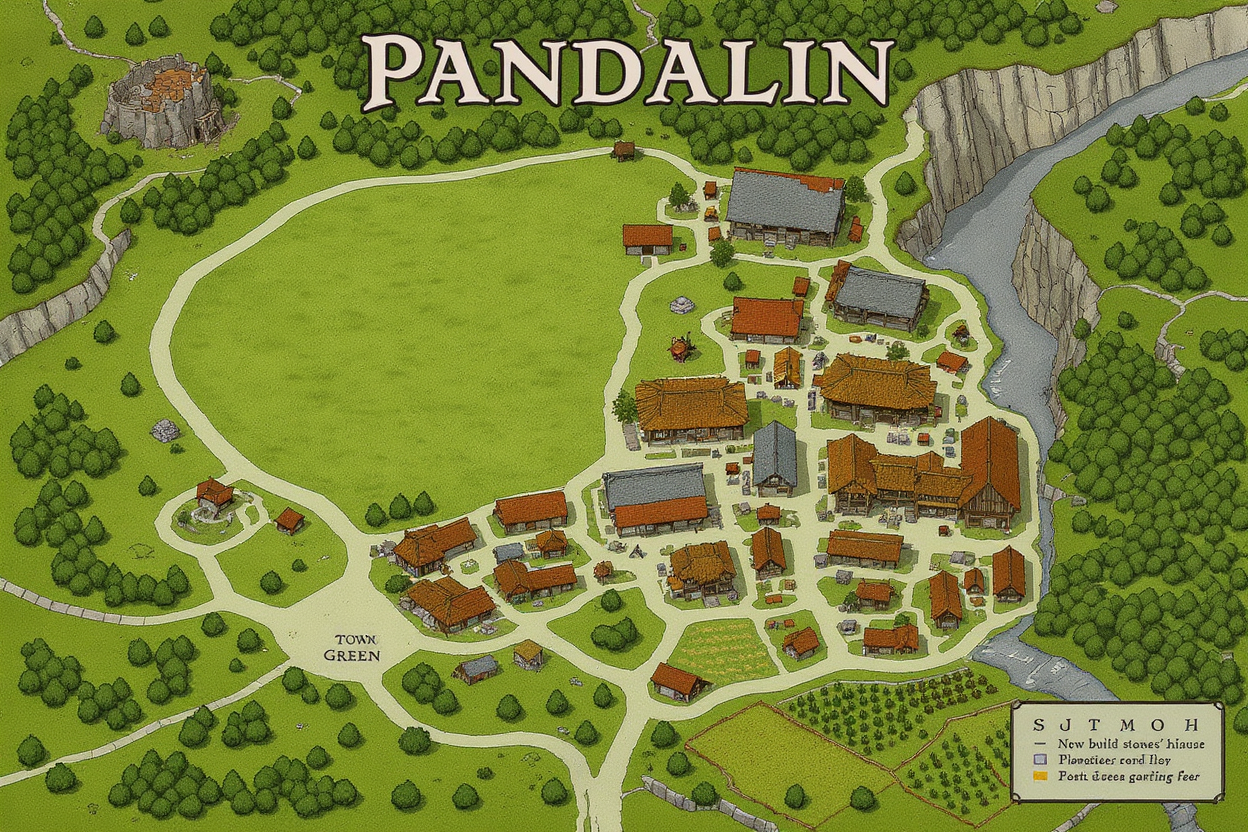
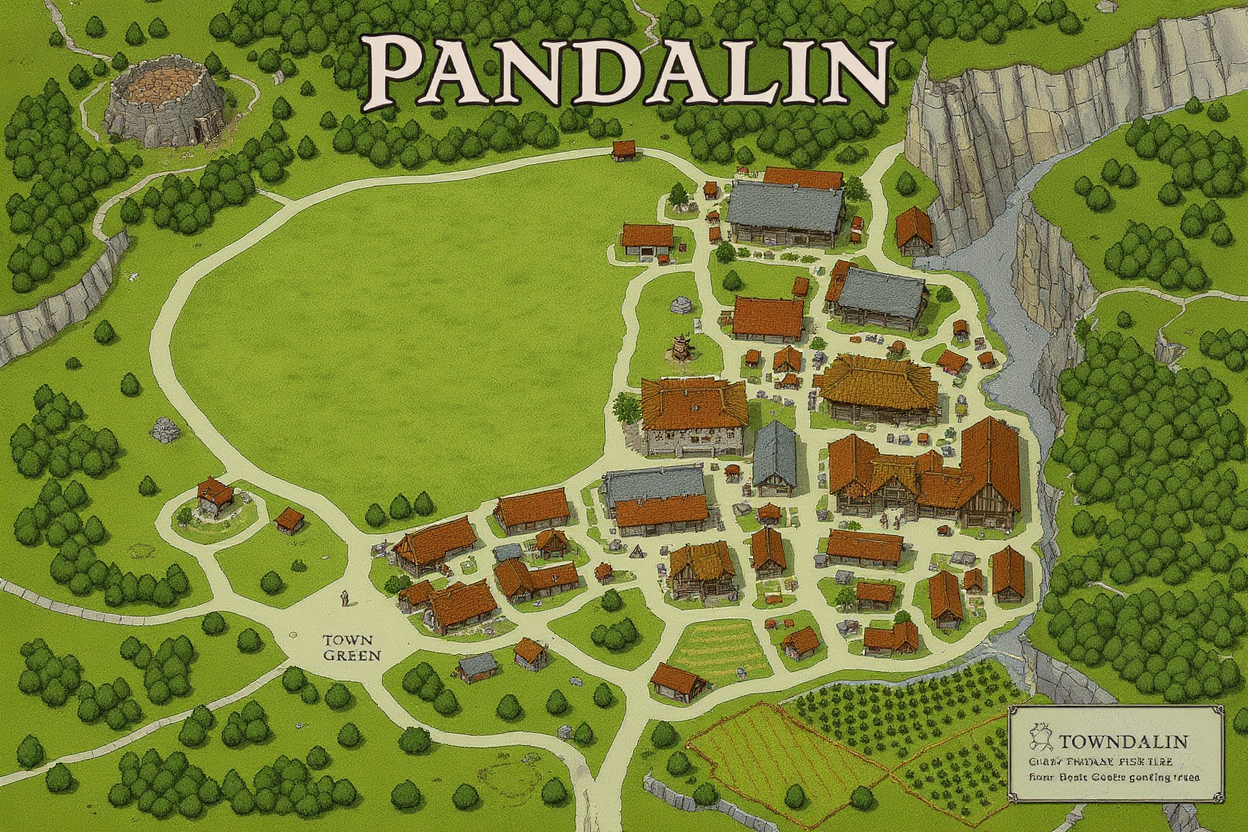
Image Test: ChatGPT's town and regional pictures beside FLUX's from the same text

diff --git a/public/image-test.html b/public/image-test.html
@@ -28,7 +28,9 @@
   .shot { position:relative; }
   .shot svg { position:absolute; inset:0; width:100%; height:100%; pointer-events:none; display:none; }
   .showwalls .shot svg { display:block; }
-  #grid3 figcaption b { text-transform:none; }
+  #grid3 figcaption b, #grid4 figcaption b, #grid5 figcaption b { text-transform:none; }
+  .grid2 { display:grid; grid-template-columns:repeat(2, minmax(0, 1fr)); gap:14px; max-width:1500px; }
+  @media (max-width: 900px) { .grid2 { grid-template-columns:1fr; } }
   .grid3 { display:grid; grid-template-columns:repeat(3, minmax(0, 1fr)); gap:14px; }
   @media (max-width: 1100px) { .grid3 { grid-template-columns:1fr 1fr; } } @media (max-width: 700px) { .grid3 { grid-template-columns:1fr; } }
   .good { color:var(--ok, #3fd27f); } .meh { color:var(--gold); } .poor { color:#ff8b8b; }
@@ -57,14 +59,14 @@
   <div class="grid3" id="grid3"></div>
 
   <h2 class="sec">FLUX Kontext paints <span>Phandalin</span></h2>
-  <p class="lead">A town map made by FLUX Kontext on fal.ai from a text description only (no drawing sent). The same description was used for our ChatGPT version of Phandalin. Walls do not apply to a town map, so there is no overlay here.</p>
+  <p class="lead">The same description of Phandalin, word for word, given to ChatGPT (gpt-image-1, high, the picture our campaign uses) and to FLUX Kontext on fal.ai. Text only, no drawing sent to either. Walls do not apply to a town map, so there is no overlay here.</p>
   <section class="prompt"><h2>The prompt used</h2><p id="prompt3">Loading…</p></section>
-  <div class="grid3" id="grid4"></div>
+  <div class="grid2" id="grid4"></div>
 
   <h2 class="sec">FLUX Kontext paints <span>a regional map</span></h2>
-  <p class="lead">A regional map made by FLUX Kontext on fal.ai from a text description only (no drawing sent): the same atlas description we gave ChatGPT for the Sword Coast-style map. It is a portrait picture, 2:3.</p>
+  <p class="lead">The same atlas description, word for word, given to ChatGPT (gpt-image-1) and to FLUX Kontext on fal.ai, text only, portrait 2:3. This is ChatGPT's first picture from the text. Our campaign's Sword Coast was later made from a drawn layout, so it follows the real geography more closely.</p>
   <section class="prompt"><h2>The prompt used</h2><p id="prompt4">Loading…</p></section>
-  <div class="grid3" id="grid5"></div>
+  <div class="grid2" id="grid5"></div>
 </main>
 <script src="/nav.js"></script>
 <script>
@@ -132,10 +134,15 @@
     fig.appendChild(cap); grid3.appendChild(fig);
   }
   // ---- the town and the region (FLUX Kontext from text only)
-  const textOnly = async (name, promptId, gridId, title, verdict) => {
+  const textOnly = async (name, promptId, gridId, title, verdict, chat) => {
     try { document.getElementById(promptId).textContent = (await (await fetch(dir + name + '-prompt.txt')).text()).trim(); } catch { document.getElementById(promptId).textContent = 'Not made yet.'; }
     let res = null;
     try { res = await (await fetch(dir + name + '-results.json')).json(); } catch { /* not made yet */ }
+    if (chat) {
+      const cf = el('figure'); const cs = el('div', 'shot'); const ci = el('img'); ci.src = dir + chat.file; ci.alt = chat.title; ci.loading = 'lazy'; cs.appendChild(ci); cf.appendChild(cs);
+      const cc = el('figcaption'); cc.appendChild(el('b', '', chat.title)); cc.appendChild(el('span', '', chat.model)); cc.appendChild(el('span', '', chat.verdict));
+      const ca = el('a', 'open', 'Open full size'); ca.href = dir + chat.file; ca.target = '_blank'; ca.rel = 'noopener'; cc.appendChild(ca); cf.appendChild(cc); document.getElementById(gridId).appendChild(cf);
+    }
     const fig = el('figure');
     if (res && res.ok) { const shot = el('div', 'shot'); const img = el('img'); img.src = dir + res.file; img.alt = title; img.loading = 'lazy'; shot.appendChild(img); fig.appendChild(shot); }
     else fig.appendChild(el('div', 'missing', res ? 'Failed: ' + res.error : 'Not made yet.'));
@@ -143,8 +150,8 @@
     if (res && res.ok) { cap.appendChild(el('span', '', verdict)); const a = el('a', 'open', 'Open full size'); a.href = dir + res.file; a.target = '_blank'; a.rel = 'noopener'; cap.appendChild(a); }
     fig.appendChild(cap); document.getElementById(gridId).appendChild(fig);
   };
-  await textOnly('town', 'prompt3', 'grid4', 'FLUX Kontext on fal.ai', 'Top-down enough for a town: a green, roads, about forty buildings and the gorge, but it wrote its own title and a garbled legend into the picture, which a map for the table must not have.');
-  await textOnly('region', 'prompt4', 'grid5', 'FLUX Kontext on fal.ai', 'Reads as an atlas: a sea down the west side, a coast with a walled port, a great forest, a volcano, rivers and trails. It added clouds and a decorated border, which a map should not have, and the sea is far too dominant.');
+  await textOnly('town', 'prompt3', 'grid4', 'FLUX Kontext on fal.ai', 'Top-down enough for a town: a green, roads, about forty buildings and the gorge, but it wrote its own title and a garbled legend into the picture, which a map for the table must not have.', { file: 'town-chatgpt.png', title: 'ChatGPT (OpenAI) gpt-image-1', model: 'the Phandalin our campaign uses · high quality · about $0.20', verdict: 'No title, no legend, no writing in the picture, and richer painted art. But it shows only part of the town, close up and a little slanted: the whole layout the text describes (the green, the inn, the gorge, the ruined manor) is not all there, which FLUX gets closer to.' });
+  await textOnly('region', 'prompt4', 'grid5', 'FLUX Kontext on fal.ai', 'Reads as an atlas: a sea down the west side, a coast with a walled port, a great forest, a volcano, rivers and trails. It added clouds and a decorated border, which a map should not have, and the sea is far too dominant.', { file: 'region-chatgpt.png', title: 'ChatGPT (OpenAI) gpt-image-1', model: 'the first atlas picture from this text · about $0.05 to $0.20', verdict: 'No clouds, no border, no writing. Land fills most of the picture with the sea as a strip down the west, a walled port on the coast, one great forest with ruins in clearings, a smoking volcano, a river, mountains along the east: much closer to the description than the FLUX version.' });
   const box = document.getElementById('showWalls');
   box.addEventListener('change', () => document.body.classList.toggle('showwalls', box.checked));
 })();

diff --git a/CLAUDE.md b/CLAUDE.md
@@ -231,3 +231,4 @@ Two engines, switchable any time (Settings page, chat-tab dropdown, voice-test c
 - Bake-off results (Nov 2026, same inn layout and prompt, drift = median px from the saved walls): Google gemini-nano-banana-2.1 1K 4 px (worst 52, 67 percent of walls within 8 px, about $0.03, 26 s), Google gemini-3-pro-image 1K 4 px (worst 26, $0.13, 19 s), OpenAI gpt-image-1 medium 12 px and high 30 px, FLUX Kontext on fal.ai 40 px (redraws the room), FLUX Control LoRA canny on fal.ai 2 px but it barely repaints: the output is the flat drawing with texture, so its low drift only means it did nothing (166 s). Gemini painted the nicest pictures AND kept the walls: the best fit so far for Method B remakes. Gemini notes: the Interactions endpoint wants response_format mime_type image/jpeg, the response holds opaque signature strings beside the picture so only a candidate that decodes to a PNG or JPEG is taken; image models have no free tier (billing must be on).
 - FLUX Kontext town test (Nov 2026, scripts/image-test-town.mjs, fourth section of the Image Test page): fal-ai/flux-pro/kontext/text-to-image painted Phandalin from our town description in 9 s; top-down enough for a town but it put its own title and a garbled legend into the picture (add 'no text, no letters' to its prompt before using it).
 - FLUX Kontext regional test (Nov 2026, node scripts/image-test-town.mjs region, fifth section of the Image Test page): the Sword Coast-style atlas description, 2:3, painted in 7 s; reads as an atlas but adds clouds and a decorated border and the sea dominates; no text. The script now takes town or region.
+- Image Test, ChatGPT beside FLUX (Nov 2026): the town and regional sections show ChatGPT's picture next to FLUX Kontext's from the same text word for word (town: our campaign's Phandalin, vtt-phandalin, from phandalin-player-full-prompt.txt, and FLUX re-run with that same longer prompt; region: ChatGPT's first atlas picture from coast-atlas-prompt.txt). Honest result: ChatGPT paints richer art with no writing but its Phandalin is a close-up of part of the town; FLUX follows the whole layout more but writes its own title and legend on the town and adds clouds and a border on the region; ChatGPT's region is closer to the description than FLUX's.
